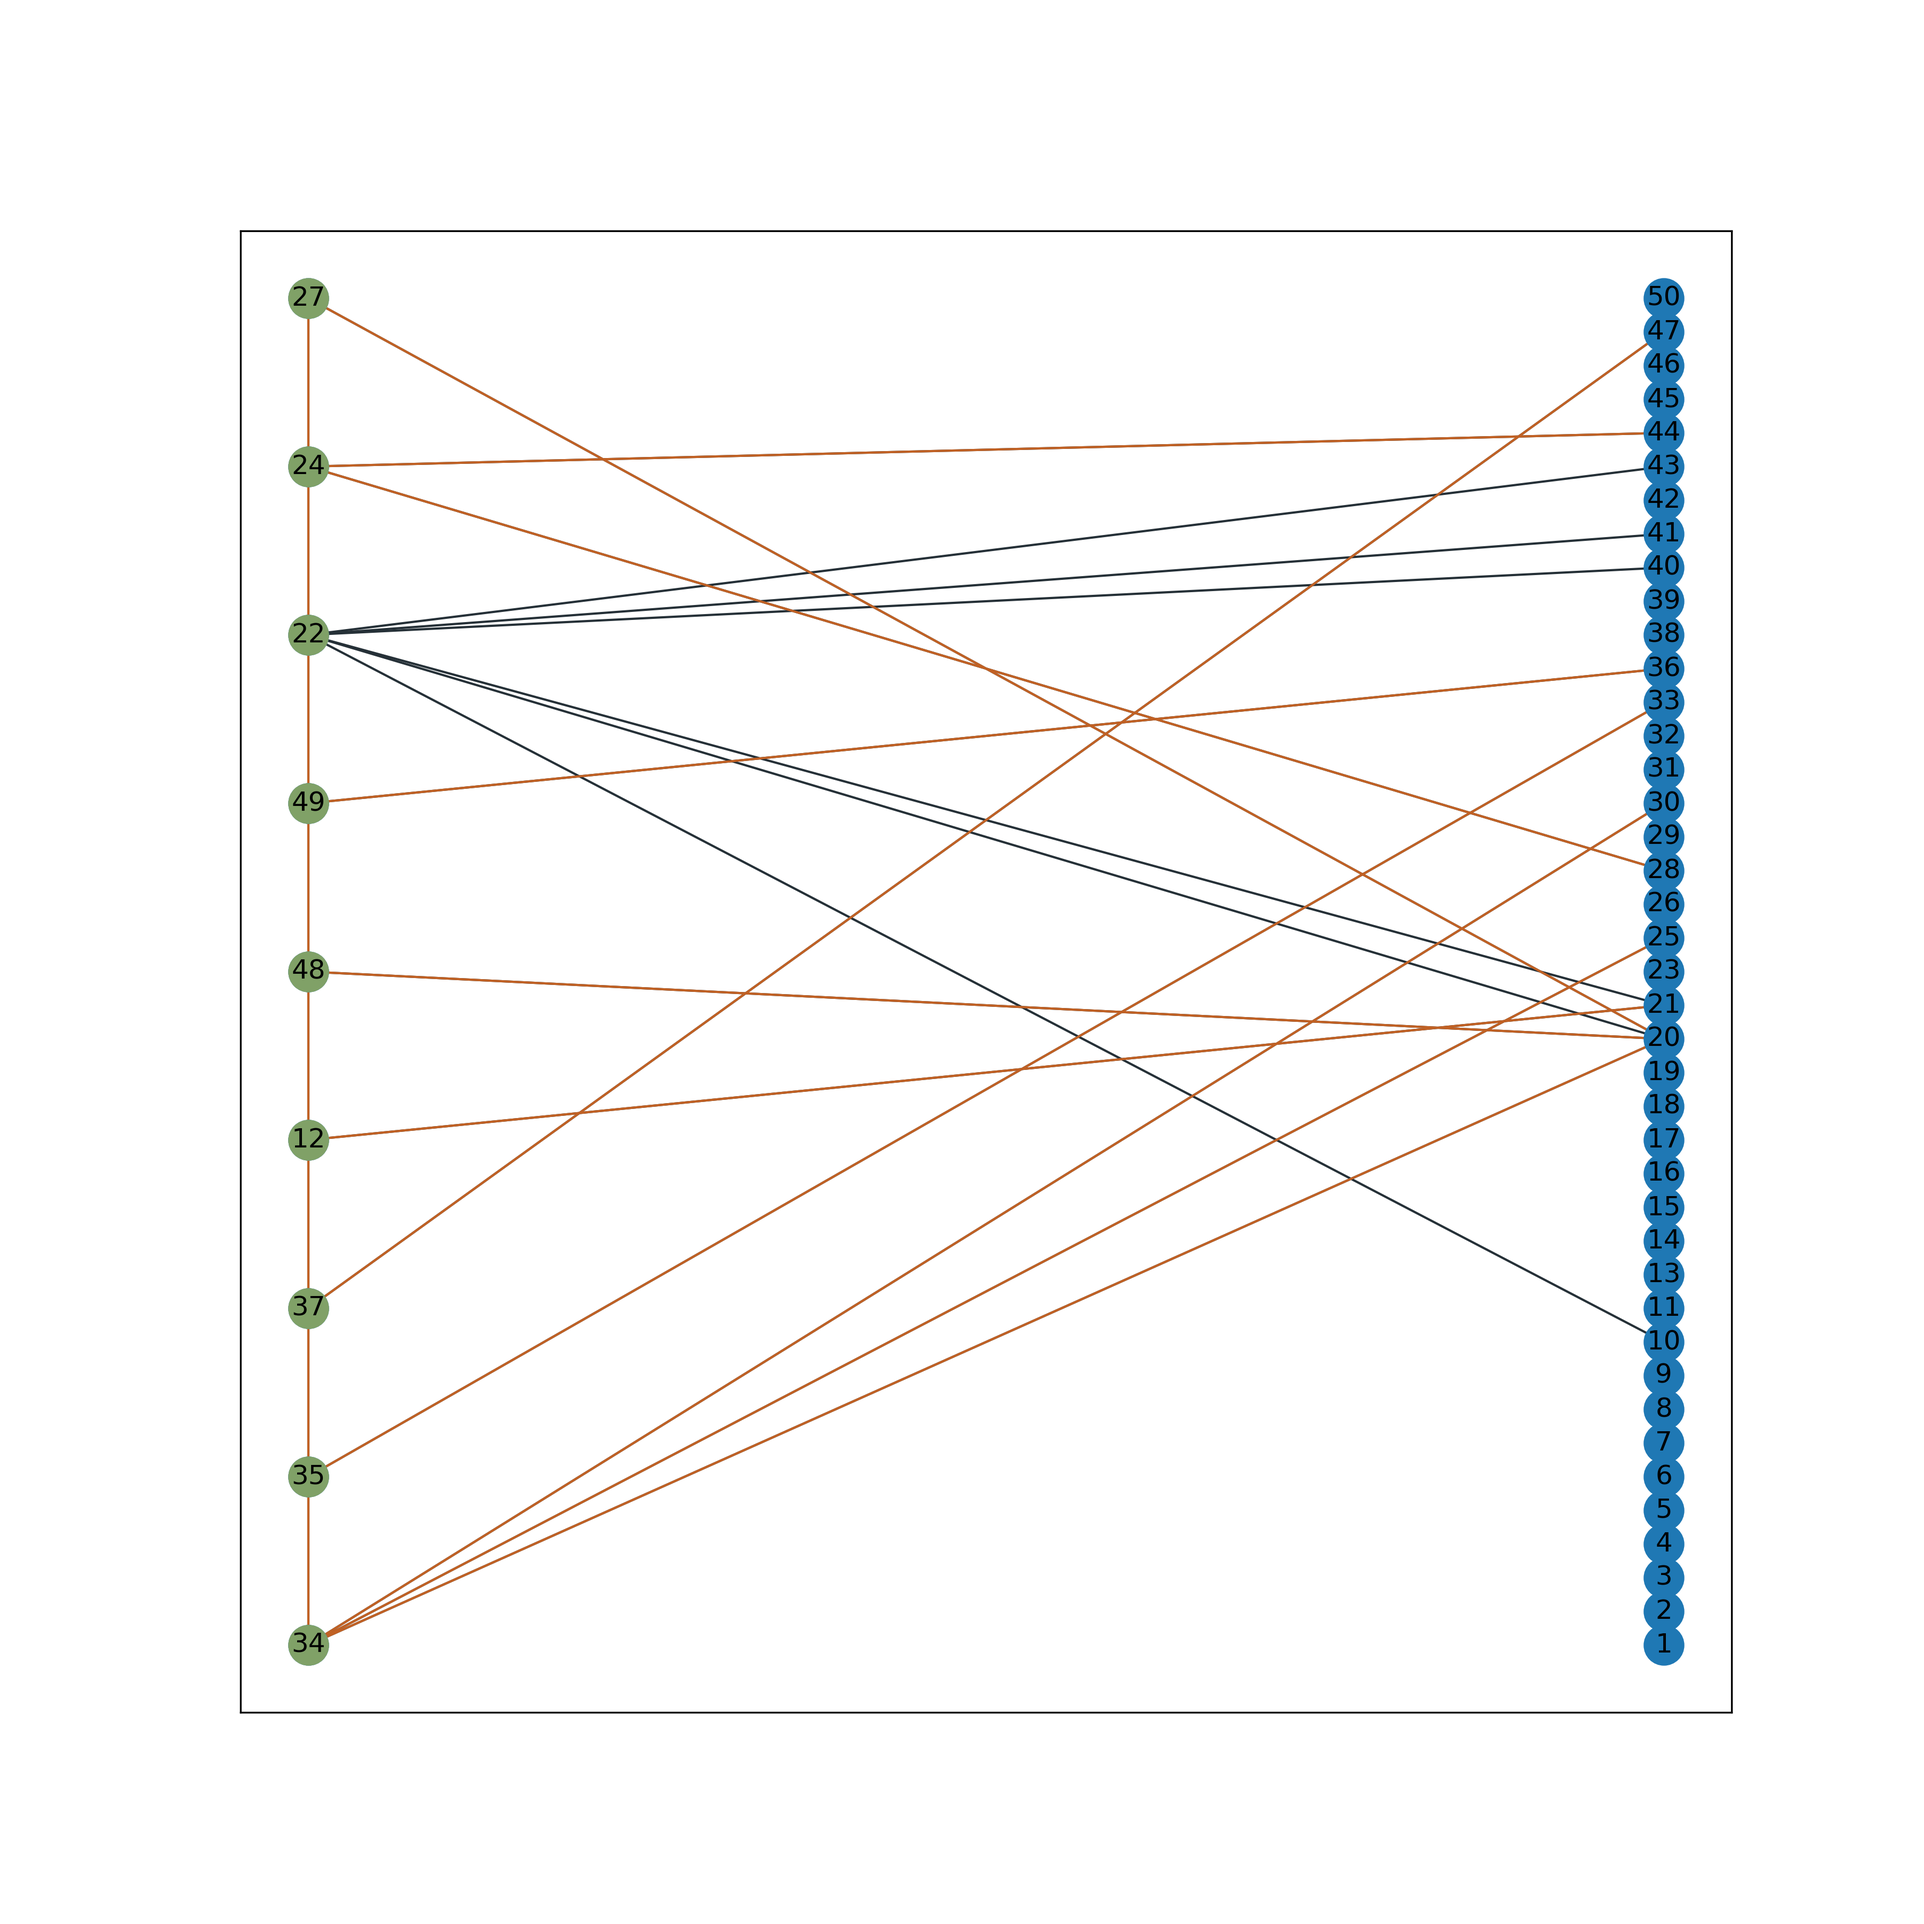
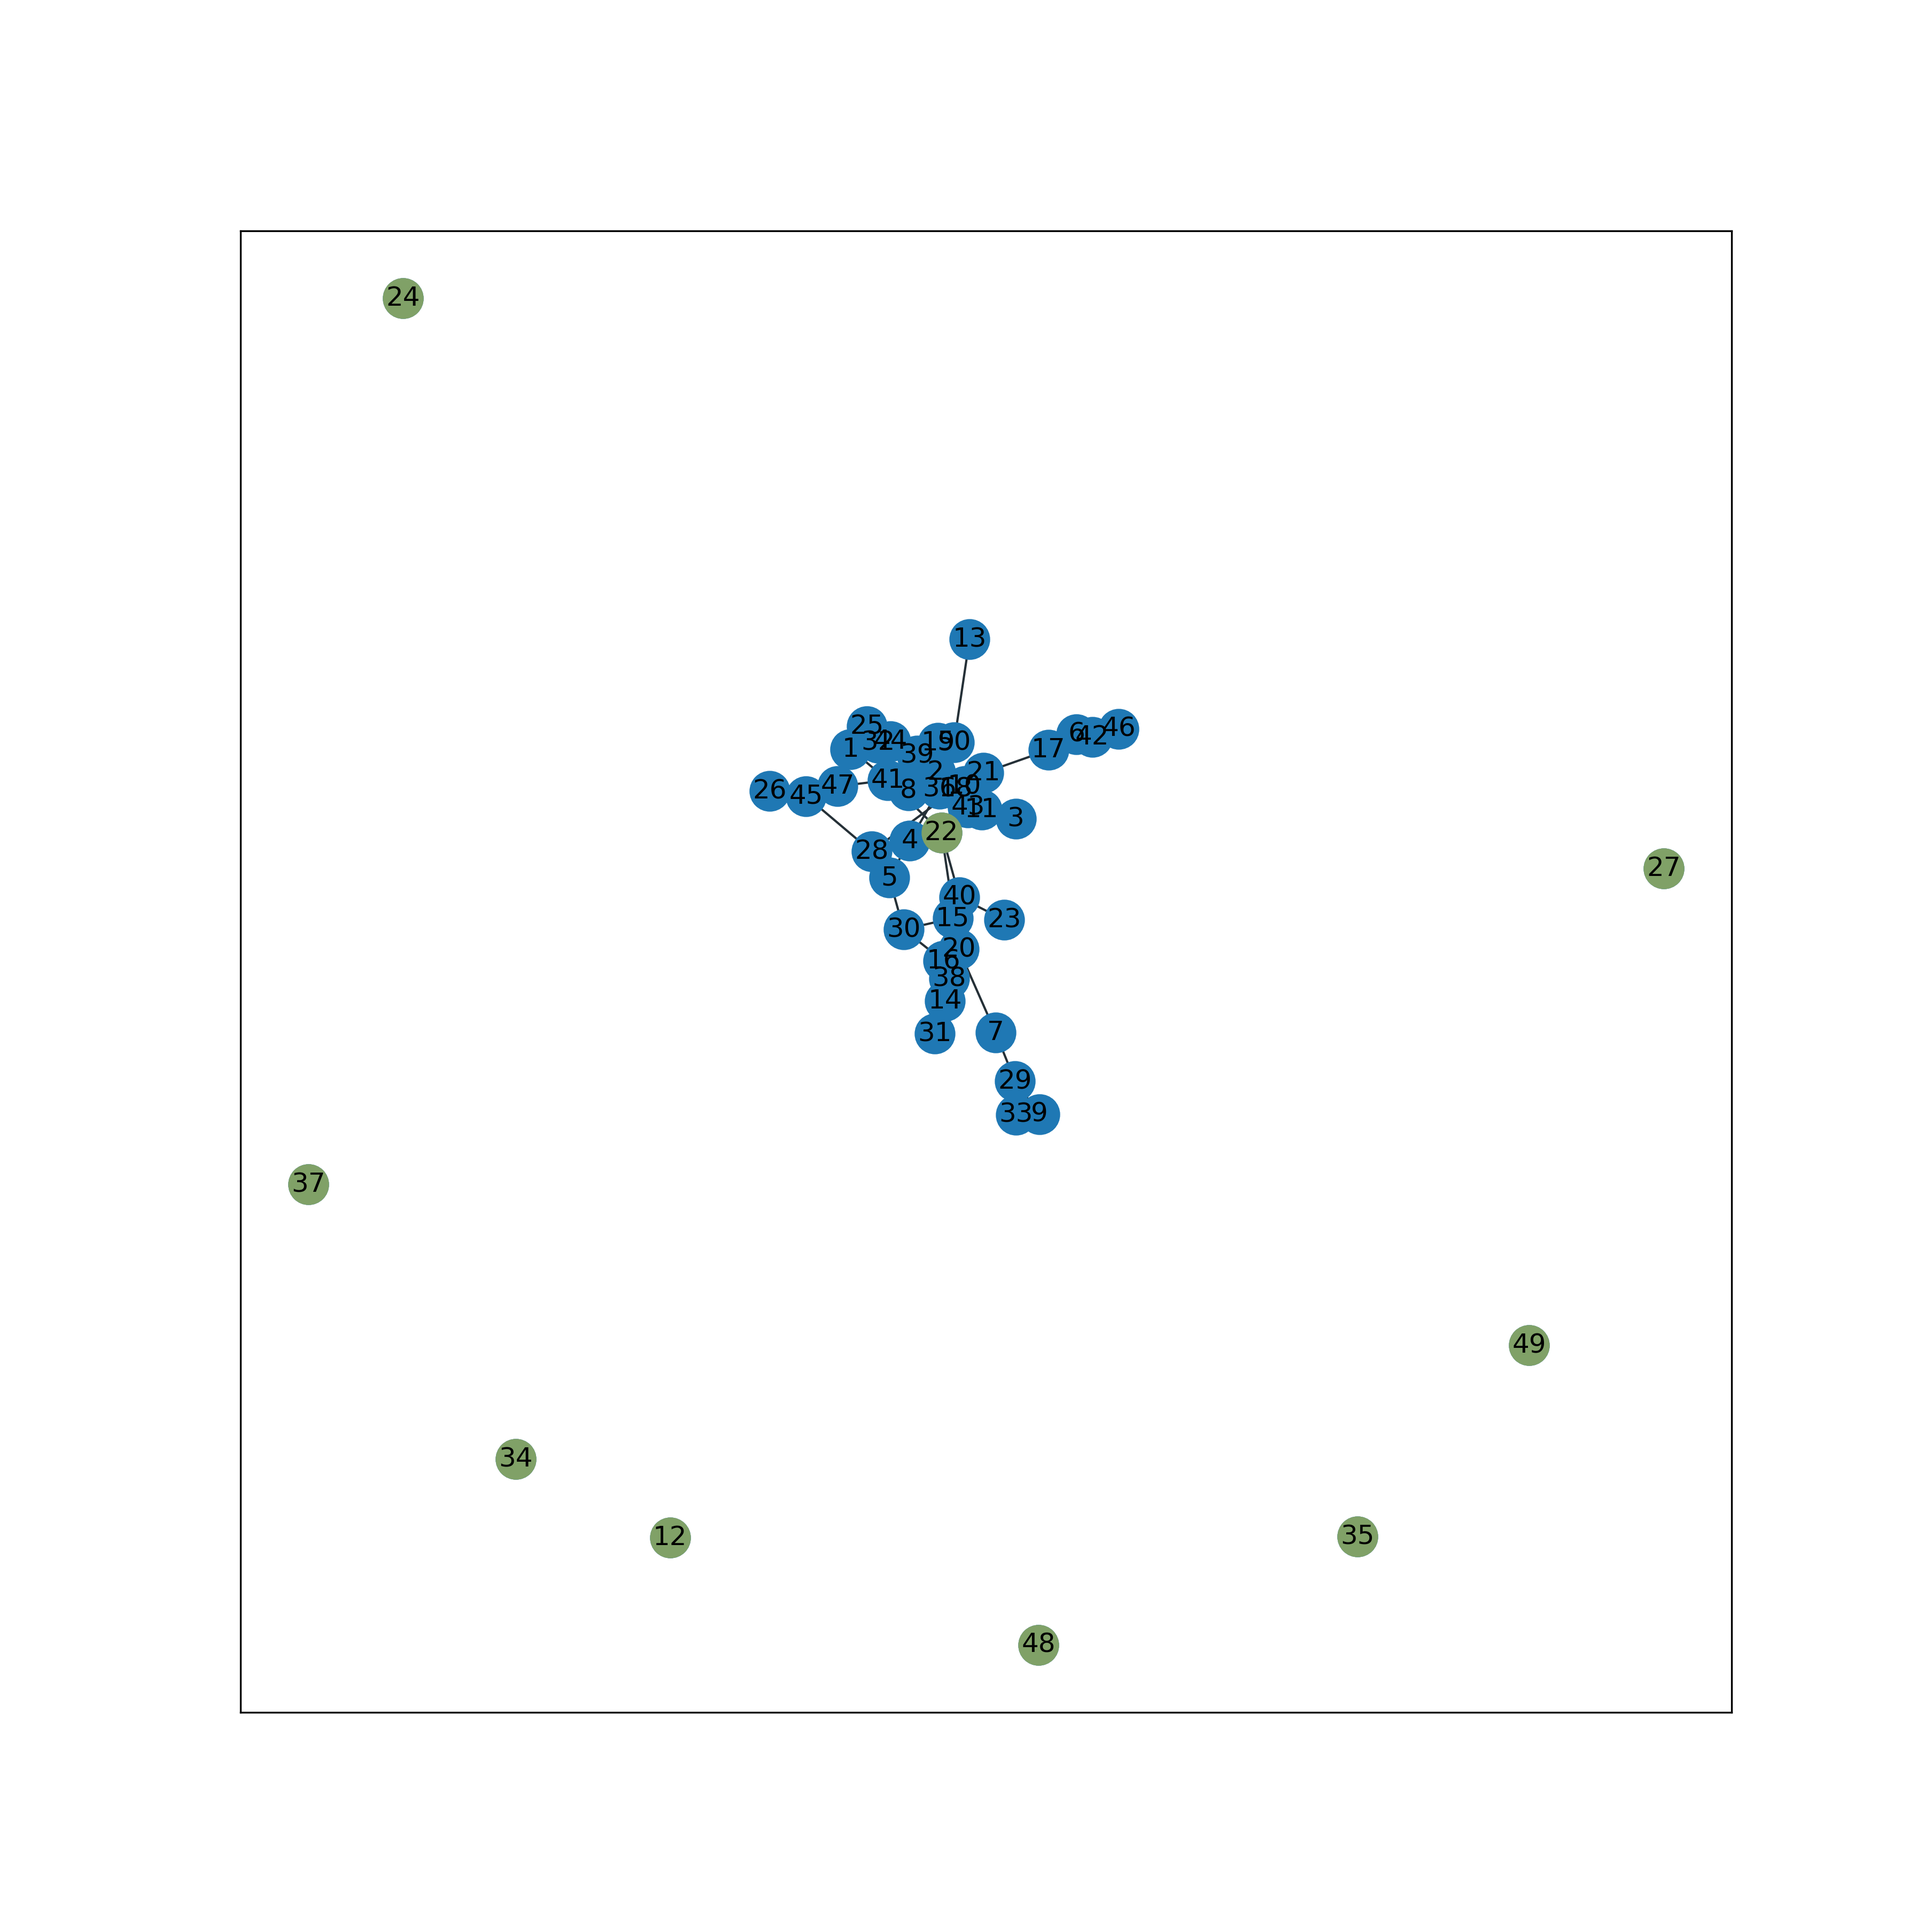
mexendo no plot do grafo

diff --git a/Visual/plotting_graph.py b/Visual/plotting_graph.py
@@ -20,20 +20,18 @@ def read_files(graph_file_name):
     terminals = lines[numof_e+2].split()
     terminals = list(map(int, terminals))
 
-    full_path_solution = "../Multiway Cut/Solutions/"+graph_file_name.split(".")[0] +".sol"
+    full_path_solution = "../Multiway Cut/Solutions/Original algorithm/"+graph_file_name.split(".")[0] +".sol"
     file = open(full_path_solution, 'r').read()
     lines = file.split('\n')
 
-    parts = lines[0].split()
-    multiway_cut_cost = int(parts[0])
-    numof_cut_edges = int(parts[1])
+    multiway_cut_cost = int(lines[0].split()[1])
 
     cut_edges = []
-    for i in range(1, numof_cut_edges+1):
+    for i in range(2, len(lines)-1):
         parts = lines[i].split()
         cut_edges.append((int(parts[0]), int(parts[1])))
 
-    return numof_v, numof_e, edges, terminals, numof_cut_edges, multiway_cut_cost, cut_edges
+    return numof_v, numof_e, edges, terminals, len(cut_edges), multiway_cut_cost, cut_edges
 
 def create_graph(numof_v, numof_e, edges, terminals, cut_edges):
     graph = nx.Graph()
@@ -41,6 +39,9 @@ def create_graph(numof_v, numof_e, edges, terminals, cut_edges):
     graph.add_nodes_from([1, numof_v])
     for (u, v, w) in edges:
         graph.add_edge(u, v, weight = w)
+
+    for (u, v) in cut_edges:
+        graph.remove_edge(u, v)
 
     '''
     for node in terminals:
@@ -63,8 +64,8 @@ def main():
     #print(terminals)
     graph = create_graph(numof_v, numof_e, edges, terminals, cut_edges)
 
-    pos = nx.bipartite_layout(graph, terminals)
-    #pos = nx.random_layout(graph)
+    #pos = nx.bipartite_layout(graph, terminals)
+    pos = nx.spring_layout(graph)
 
     node_colors = []
     for i in range(0, numof_v):
@@ -76,7 +77,7 @@ def main():
     plt.figure(0, figsize=(12,12))
     nx.draw_networkx(graph, pos, with_labels=True, edge_color = '#253037')
     nx.draw_networkx_nodes(graph, pos, nodelist=terminals, node_color= '#80a167')
-    nx.draw_networkx_edges(graph, pos, edgelist=cut_edges, edge_color='#c16124')
+    #nx.draw_networkx_edges(graph, pos, edgelist=cut_edges, edge_color='#c16124')
     #nx.draw_networkx_edge_labels(graph, pos, edge_labels=edge_labels)
 
     '''

diff --git a/Multiway Cut/run_all.py b/Multiway Cut/run_all.py
@@ -6,7 +6,7 @@ DEBUG = 1
 def print_requirement():
     print('This script requires two arguments.\n')
     print('The first argument specify what you want to do:')
-    print('0: just run the algoritm\n1: just build the table file\n2: both.\n')
+    print('0: just run the algorithm\n1: just build the table file\n2: both.\n')
     print('The second argument specify which algorithm/sols you want to use:')
     print('0: original min cut based algorithm\n1: modified 1 (./multiway2)\n2: modified 2 (./multiway3)\n3: all of them')
 
